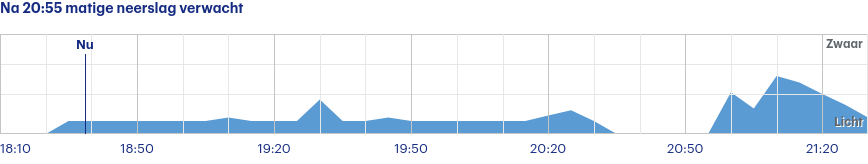
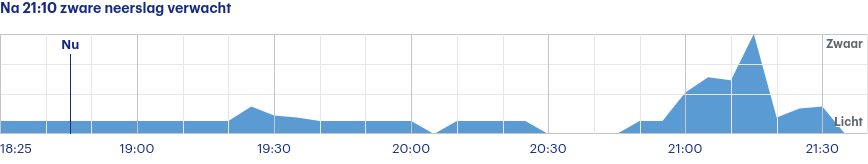
Latest scraping buienradar: Wed Aug  2 16:41:13 UTC 2023

diff --git a/scrapes/buienradar/buienradar-jette-3-uur.md b/scrapes/buienradar/buienradar-jette-3-uur.md
@@ -1,4 +1,4 @@
-Na 20:55 matige neerslag verwacht
+Na 21:10 zware neerslag verwacht
 
 ![](buienradar-jette-3-uur.png)
 
